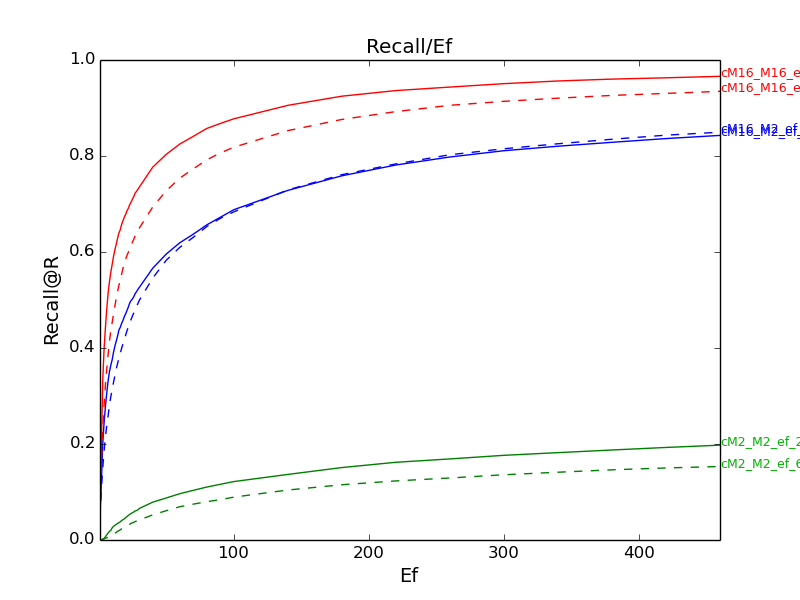
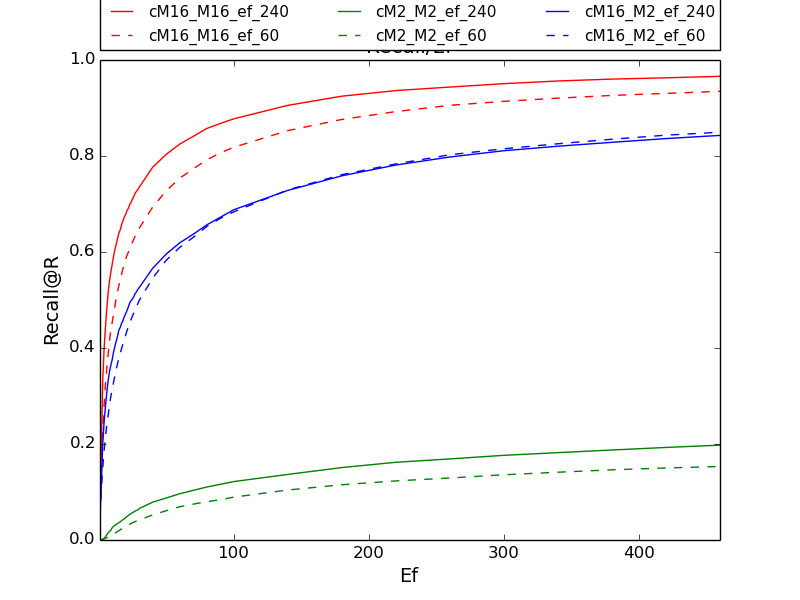
.

diff --git a/recall_ef.py b/recall_ef.py
@@ -311,26 +311,29 @@ cM16_M2_ef_60 = splitted_cM16_M2_ef_60[1::5]
 cM2_M2_ef_60 = splitted_cM2_M2_ef_60[1::5]
 
 
-plt.plot(ef, cM16_M16, 'r')
-plt.plot(ef, cM16_M2, 'b')
-plt.plot(ef, cM2_M2, 'g')
+plt.plot(ef, cM16_M16, 'r', label = 'cM16_M16_ef_240')
+plt.plot(ef, cM16_M16_ef_60, 'r--', label='cM16_M16_ef_60')
 
-plt.plot(ef, cM16_M16_ef_60, 'r--')
-plt.plot(ef, cM16_M2_ef_60, 'b--')
-plt.plot(ef, cM2_M2_ef_60, 'g--')
+plt.plot(ef, cM2_M2, 'g', label = 'cM2_M2_ef_240')
+plt.plot(ef, cM2_M2_ef_60, 'g--', label = 'cM2_M2_ef_60')
+
+plt.plot(ef, cM16_M2, 'b', label = 'cM16_M2_ef_240')
+plt.plot(ef, cM16_M2_ef_60, 'b--', label = 'cM16_M2_ef_60')
 
 plt.axis([1, 460, 0, 1])
 plt.xlabel('Ef', fontsize=14)
 plt.ylabel('Recall@R', fontsize=14)
-plt.text(ef[-1]+1, cM16_M16[-1], 'cM16_M16_ef_240', fontsize=9, color=(1,0,0))
-plt.text(ef[-1]+1, cM16_M2[-1], 'cM16_M2_ef_240', fontsize=9, color=(0,0,1))
-plt.text(ef[-1]+1, cM2_M2[-1], 'cM2_M2_ef_240', fontsize=9, color=(0,0.7,0))
-
-plt.text(ef[-1]+1, cM16_M16_ef_60[-1], 'cM16_M16_ef_60', fontsize=9, color=(1,0,0))
-plt.text(ef[-1]+1, cM16_M2_ef_60[-1], 'cM16_M2_ef_60', fontsize=9, color=(0,0,1))
-plt.text(ef[-1]+1, cM2_M2_ef_60[-1], 'cM2_M2_ef_60', fontsize=9, color=(0,0.7,0))
+# plt.text(ef[-1]+1, cM16_M16[-1], 'cM16_M16_ef_240', fontsize=9, color=(1,0,0))
+# plt.text(ef[-1]+1, float(cM16_M2[-1])-0.1, 'cM16_M2_ef_240', fontsize=9, color=(0,0,1))
+# plt.text(ef[-1]+1, cM2_M2[-1], 'cM2_M2_ef_240', fontsize=9, color=(0,0.7,0))
+#
+# plt.text(ef[-1]+1, cM16_M16_ef_60[-1], 'cM16_M16_ef_60', fontsize=9, color=(1,0,0))
+# plt.text(ef[-1]+1, cM16_M2_ef_60[-1], 'cM16_M2_ef_60', fontsize=9, color=(0,0,1))
+# plt.text(ef[-1]+1, cM2_M2_ef_60[-1], 'cM2_M2_ef_60', fontsize=9, color=(0,0.7,0))
 
 
 plt.title('Recall/Ef')
+plt.legend(bbox_to_anchor=(0., 1.02, 1., .102), loc=3,
+           ncol=3, mode="expand", borderaxespad=0., prop={'size': 11})
 plt.savefig('recall_ef_smart.png')
 #plt.s:ow()

diff --git a/L2space.h b/L2space.h
@@ -209,25 +209,23 @@ namespace hnswlib {
         size_t k_;
         size_t vocab_dim_;
 
-        float **codebooks;
+        std::vector<float *> codebooks;
 
     public:
-        L2SpacePQ(const char *codebooksFilename, size_t dim, size_t m, size_t k)
+        L2SpacePQ(const char *codebooksFilename, const size_t dim, const size_t m, const size_t k):
+                dim_(dim), m_(m), codebooks(m), k_(k)
         {
-            dim_ = dim;
-            m_ = m;
-            k_ = k;
-            vocab_dim_ = (dim % m == 0) ? dim / m : -1;
-            data_size_ = m * sizeof(unsigned char);
+            vocab_dim_ = (dim_ % m_ == 0) ? dim_ / m_ : -1;
+            data_size_ = m_ * sizeof(unsigned char);
 
+            std::cout << dim_ << m_ << vocab_dim_ << data_size_ << std::endl;
             if (vocab_dim_ == -1){
                 std::cerr << "M is not multiply of D" << std::endl;
                 exit(1);
             }
 
-            codebooks = (float **) calloc(sizeof(float *), m);
             for (int i = 0; i < m_; i++)
-                codebooks[i] = (float *) calloc(sizeof(float), vocab_dim_ * k);
+                codebooks[i] = (float *) calloc(sizeof(float), vocab_dim_ * k_);
 
             FILE *fin = fopen(codebooksFilename, "rb");
             for (int i = 0; i < m_; i++){
@@ -248,7 +246,7 @@ namespace hnswlib {
         ~L2SpacePQ(){
             for (int i = 0; i < m_; i++)
                 free(codebooks[i]);
-            free(codebooks);
+            //free(codebooks);
         }
 
         size_t get_data_size() {

diff --git a/main.cpp b/main.cpp
@@ -5,8 +5,8 @@ void deep_test10M();
 void sift_test1B_PQ();
 
 int main() {
-	sift_test1B();
-    //sift_test1B_PQ();
+	//sift_test1B();
+    sift_test1B_PQ();
     //deep_test10M();
     return 0;  
 };
